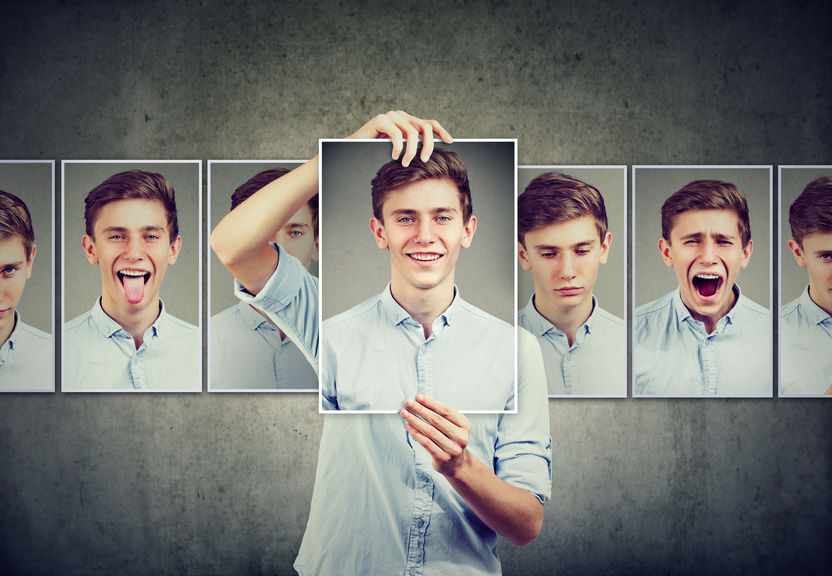
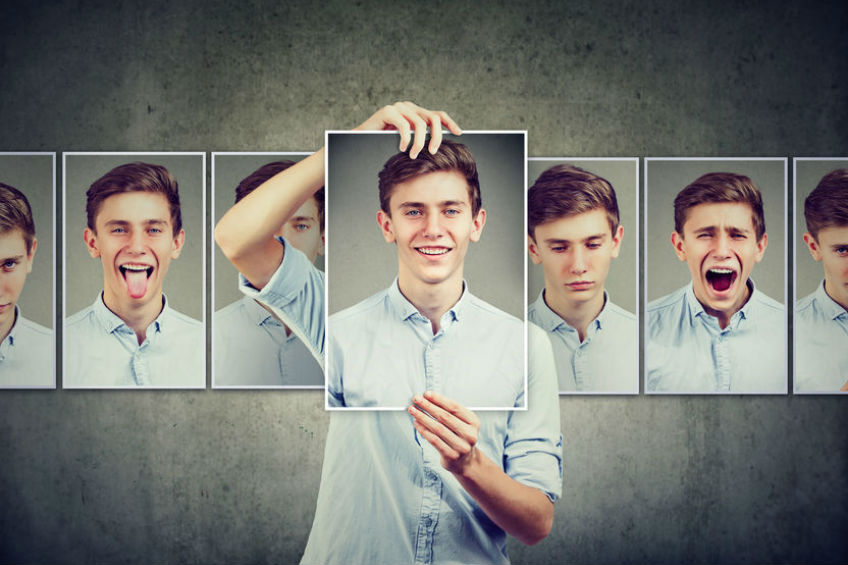
resize pictures

diff --git a/src/app/healthyrelationships/healthyrelationships.page.html b/src/app/healthyrelationships/healthyrelationships.page.html
@@ -102,9 +102,7 @@
         <ion-card class="slide-card">
           <img src="assets/images/healthy/goodbewith.jpg" />
           <ion-card-header>
-            <ion-card-title
-              >Feel good about being with each other</ion-card-title
-            >
+            <ion-card-title>Feel good about being with each other</ion-card-title>
           </ion-card-header>
         </ion-card>
         <div class="slide-footer">8 of 11</div>
@@ -152,44 +150,40 @@
         <ion-card class="slide-card">
           <img src="assets/images/unhealthy/tooquicky.jpg" />
           <ion-card-header>
-            <ion-card-title
-              >1.Too serious about the relationship too quickly</ion-card-title
-            >
+            <ion-card-title>Too serious about the relationship too quickly</ion-card-title>
           </ion-card-header>
         </ion-card>
+        <div class="slide-footer">1 of 15</div>
       </ion-slide>
       <ion-slide>
         <ion-card class="slide-card">
           <img src="assets/images/unhealthy/stealphone.jpg" />
           <ion-card-header>
-            <ion-card-title
-              >2.Checks cell phone or email without permission</ion-card-title
-            >
+            <ion-card-title>Checks cell phone or email without permission</ion-card-title>
           </ion-card-header>
         </ion-card>
+        <div class="slide-footer">2 of 15</div>
       </ion-slide>
       <ion-slide>
         <ion-card class="slide-card">
           <img src="assets/images/unhealthy/monitor.jpg" />
           <ion-card-header>
-            <ion-card-title
-              >3.Constantly monitors your whereabouts and checks in to see what
-              you are doing and who you are with</ion-card-title
-            >
+            <ion-card-title>Constantly monitors your whereabouts and checks in to see what
+              you are doing and who you are with</ion-card-title>
           </ion-card-header>
         </ion-card>
+        <div class="slide-footer">3 of 15</div>
       </ion-slide>
       <ion-slide>
         <ion-card class="slide-card">
           <img src="assets/images/unhealthy/control.jpg" />
           <ion-card-header>
-            <ion-card-title
-              >4. Is very controlling. This may include giving you orders,
+            <ion-card-title>Is very controlling. This may include giving you orders,
               telling you what to wear, and tryign to make all the decisions for
-              you</ion-card-title
-            >
+              you</ion-card-title>
           </ion-card-header>
         </ion-card>
+        <div class="slide-footer">4 of 15</div>
       </ion-slide>
       <ion-slide>
         <ion-card class="slide-card">
@@ -198,95 +192,98 @@
             <ion-card-title>Is possessive</ion-card-title>
           </ion-card-header>
         </ion-card>
+        <div class="slide-footer">5 of 15</div>
       </ion-slide>
       <ion-slide>
         <ion-card class="slide-card">
           <img src="assets/images/unhealthy/putsdown.jpg" />
           <ion-card-header>
-            <ion-card-title>6.Constantly puts you down</ion-card-title>
+            <ion-card-title>Constantly puts you down</ion-card-title>
           </ion-card-header>
         </ion-card>
+        <div class="slide-footer">6 of 15</div>
       </ion-slide>
       <ion-slide>
         <ion-card class="slide-card">
           <img src="assets/images/unhealthy/jealous.jpg" />
           <ion-card-header>
-            <ion-card-title>7. Is extremely jealous or insecure</ion-card-title>
+            <ion-card-title>Is extremely jealous or insecure</ion-card-title>
           </ion-card-header>
         </ion-card>
+        <div class="slide-footer">7 of 15</div>
       </ion-slide>
       <ion-slide>
         <ion-card class="slide-card">
           <img src="assets/images/unhealthy/temper.jpg" />
           <ion-card-header>
-            <ion-card-title>8.Has an explosive temper</ion-card-title>
+            <ion-card-title>Has an explosive temper</ion-card-title>
           </ion-card-header>
         </ion-card>
+        <div class="slide-footer">8 of 15</div>
       </ion-slide>
       <ion-slide>
         <ion-card class="slide-card">
           <img src="assets/images/unhealthy/isolates.jpg" />
           <ion-card-header>
-            <ion-card-title
-              >9. Isolated you from family or friends.</ion-card-title
-            >
+            <ion-card-title>Isolated you from family or friends.</ion-card-title>
           </ion-card-header>
         </ion-card>
+        <div class="slide-footer">9 of 15</div>
       </ion-slide>
       <ion-slide>
         <ion-card class="slide-card">
           <img src="assets/images/unhealthy/spreadlies.jpg" />
           <ion-card-header>
-            <ion-card-title>10. Makes false accusations</ion-card-title>
+            <ion-card-title>Makes false accusations</ion-card-title>
           </ion-card-header>
         </ion-card>
+        <div class="slide-footer">10 of 15</div>
       </ion-slide>
       <ion-slide>
         <ion-card class="slide-card">
           <img src="assets/images/unhealthy/moodswings.jpg" />
           <ion-card-header>
-            <ion-card-title>11. Has mood swings.</ion-card-title>
+            <ion-card-title>Has mood swings.</ion-card-title>
           </ion-card-header>
         </ion-card>
+        <div class="slide-footer">11 of 15</div>
       </ion-slide>
       <ion-slide>
         <ion-card class="slide-card">
           <img src="assets/images/unhealthy/notresponsible.jpg" />
           <ion-card-header>
-            <ion-card-title
-              >12. Does not take responsiblity for their own
-              actions.</ion-card-title
-            >
+            <ion-card-title>Does not take responsiblity for their own actions.</ion-card-title>
           </ion-card-header>
         </ion-card>
+        <div class="slide-footer">12 of 15</div>
       </ion-slide>
       <ion-slide>
         <ion-card class="slide-card">
           <img src="assets/images/unhealthy/abusive.jpg" />
           <ion-card-header>
-            <ion-card-title>13. Physically hurts you in any way</ion-card-title>
+            <ion-card-title>Physically hurts you in any way</ion-card-title>
           </ion-card-header>
         </ion-card>
+        <div class="slide-footer">13 of 15</div>
       </ion-slide>
       <ion-slide>
         <ion-card class="slide-card">
           <img src="assets/images/unhealthy/noyes.jpg" />
           <ion-card-header>
-            <ion-card-title
-              >14. Pressures or forces you to have sex.
+            <ion-card-title>Pressures or forces you to have sex.
             </ion-card-title>
           </ion-card-header>
         </ion-card>
+        <div class="slide-footer">14 of 15</div>
       </ion-slide>
       <ion-slide>
         <ion-card class="slide-card">
           <img src="assets/images/unhealthy/dontleave.jpg" />
           <ion-card-header>
-            <ion-card-title
-              >15. Refuses to let you end the relationship</ion-card-title
-            >
+            <ion-card-title>Refuses to let you end the relationship</ion-card-title>
           </ion-card-header>
         </ion-card>
+        <div class="slide-footer">15 of 15</div>
       </ion-slide>
     </ion-slides>
   </div>
